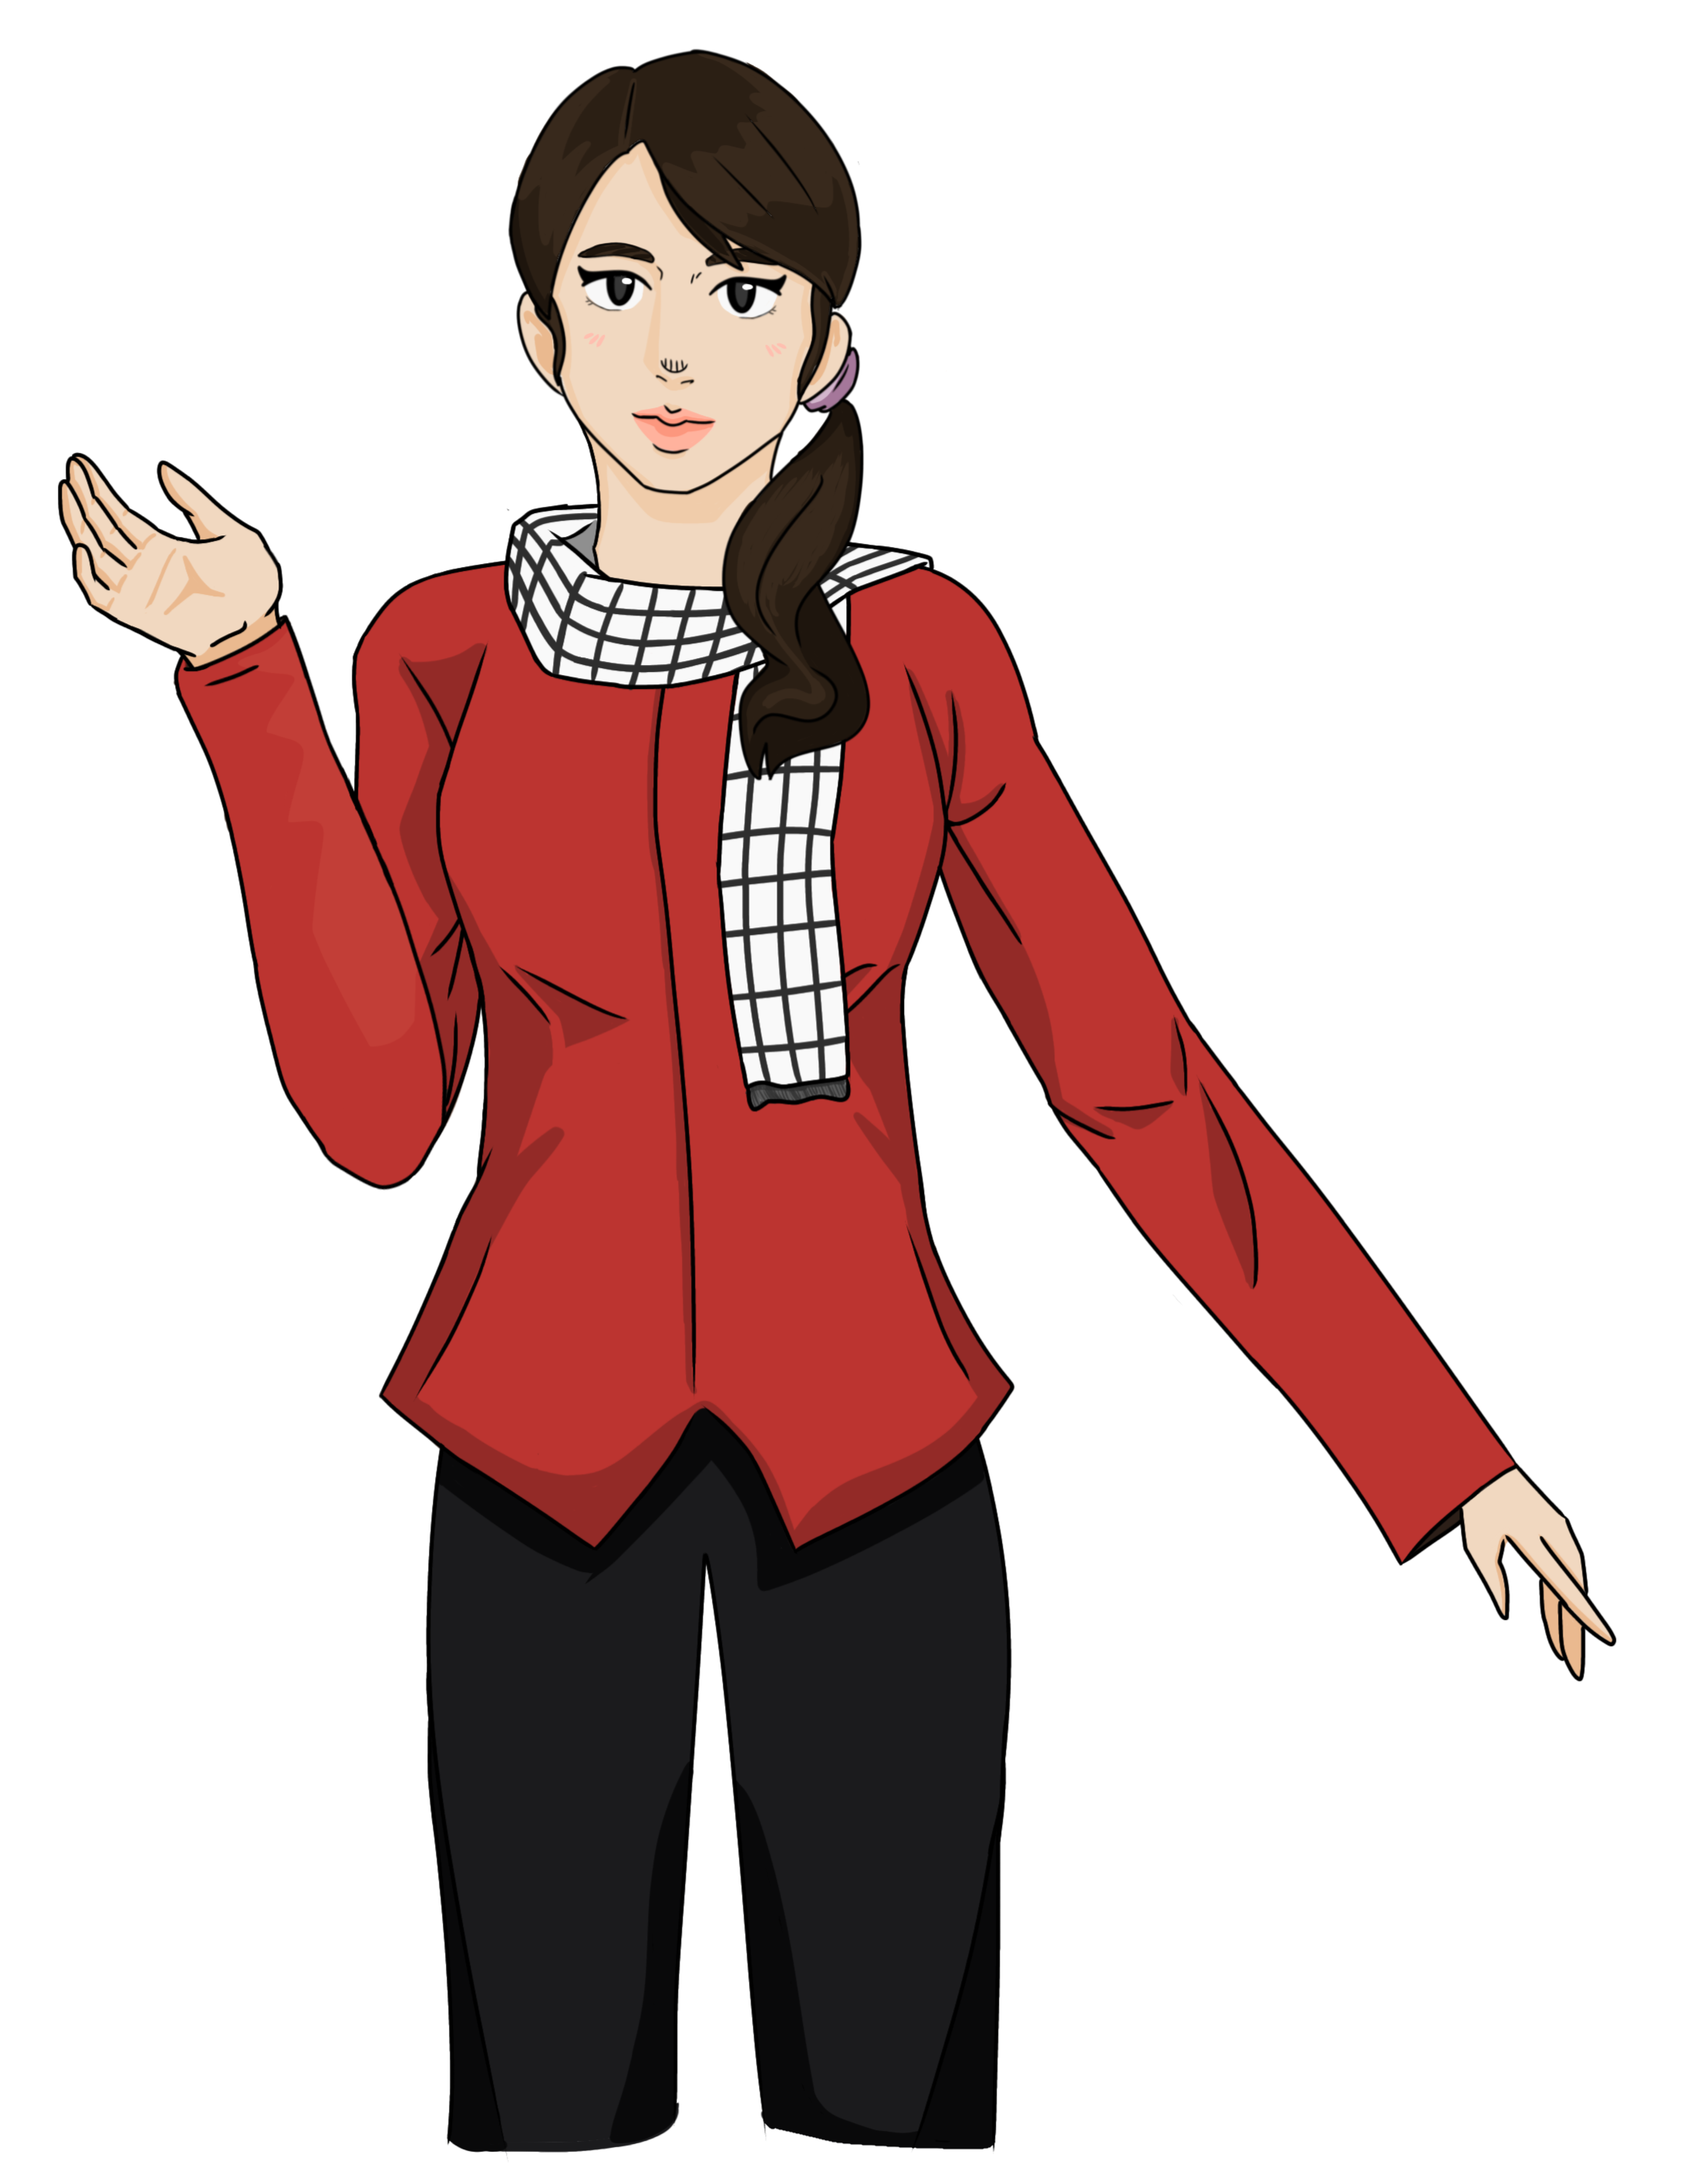
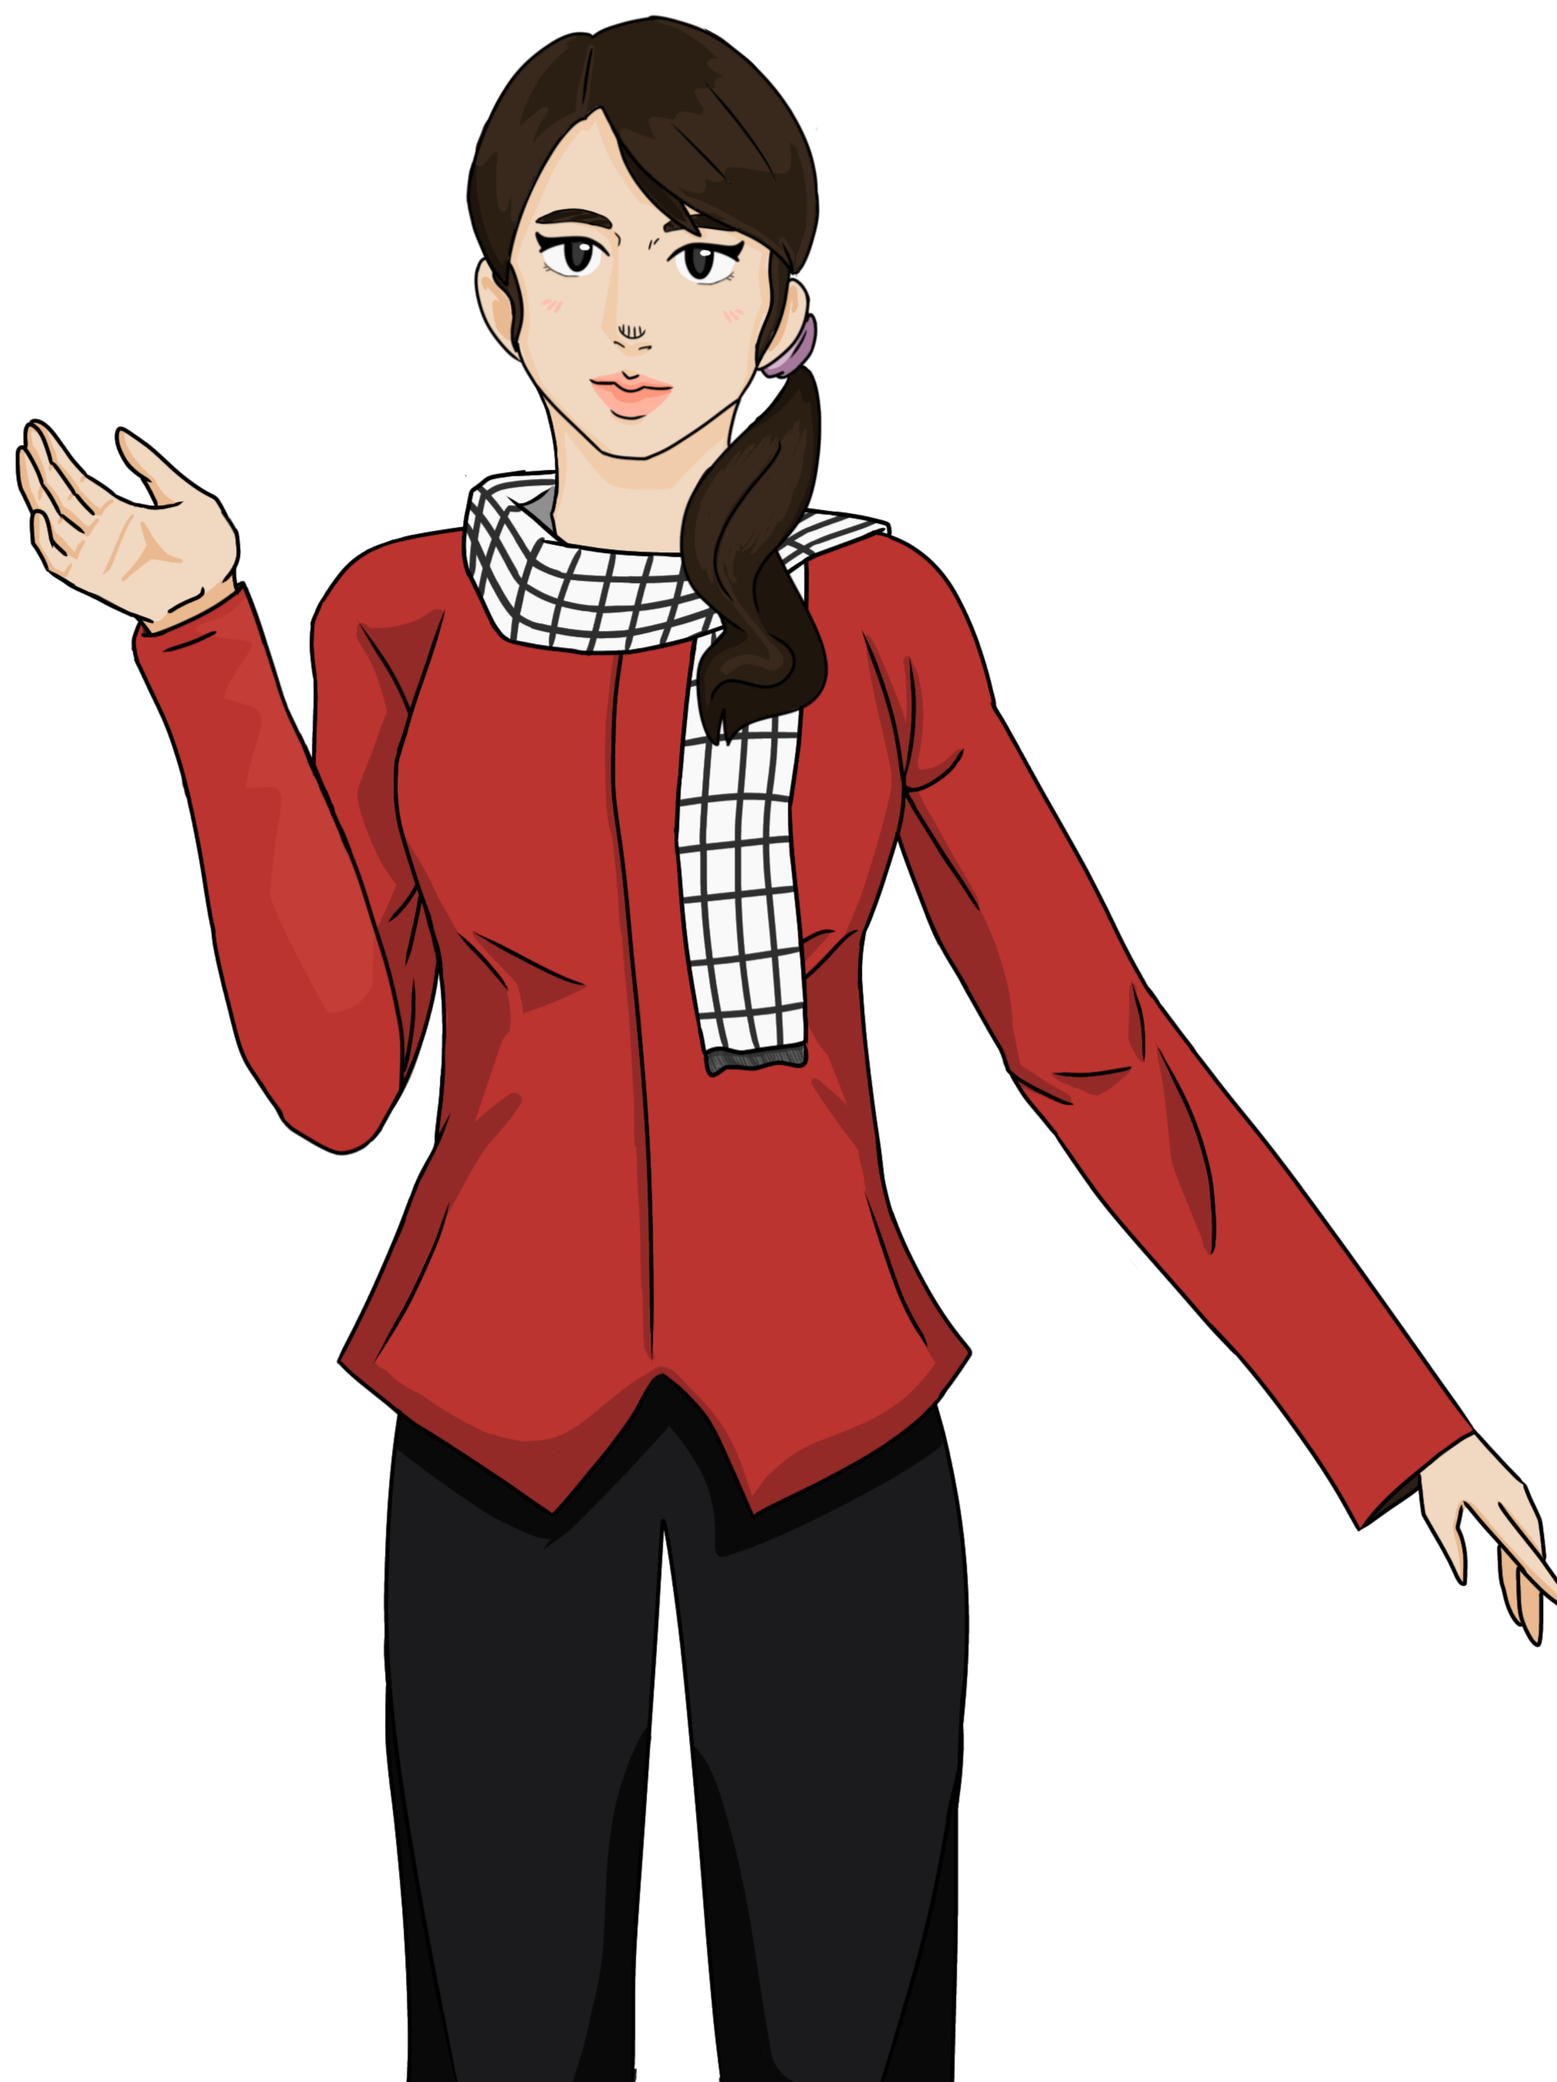
change text visual noval

Changed region(s): [[0.0, 0.0, 1.0, 1.0]]

diff --git a/client/src/components/VisualNovel1/VisualNovel.tsx b/client/src/components/VisualNovel1/VisualNovel.tsx
@@ -18,16 +18,27 @@ interface ModalAction {
 
 const Thoai = [
   {
-    character: "Thủy thủ",
-    content: "Chào cô hướng dẫn viên!",
+    character: "Hướng dẫn viên Ngân",
+    content:
+      "Xin chào các bạn, chị là A cũng là hướng dẫn viên du lịch đồng hành cùng các em vào lần trải nghiệm này. ",
   },
   {
-    character: "Võ Thị Sáu",
-    content: "Chào tất cả mọi người! Chúng ta cùng tham quan biển Đông nha",
+    character: "Hướng dẫn viên Ngân",
+    content: `Trong chuyến đi này, chúng ta sẽ có 3 chặng đường chính.
+    Chặng 1: Bắt đầu từ Côn Đảo đến “Vương quốc tỏi-Lý Sơn”.
+    Chặng 2: Từ Lý Sơn ta sẽ đi đến Biển đảo “Hoàng Sa-Trường Sa”. 
+    Chặng 3, cũng là chặng đường cuối cùng: từ biển khơi, ta sẽ trở về Côn Đảo.
+    `,
   },
   {
-    character: "Thủy Thủ",
-    content: "Oki lun!",
+    character: "Hướng dẫn viên Ngân",
+    content:
+      "Và để vượt qua các chặng đường, các bạn phải trả lời lần lượt các câu hỏi liên quan đến lịch sử, địa lý và tự nhiên,…",
+  },
+  {
+    character: "Hướng dẫn viên Ngân",
+    content:
+      "Nhưng các bạn cũng đừng quá lo lắng nhé, vì chị luôn ở đây để giúp đỡ các bạn, chúc các em may mắn!",
   },
 ];
 
@@ -56,9 +67,8 @@ const VisualNovel = ({ open, onClose }: ModalAction) => {
   useEffect(() => {
     if (typewriterRef.current) {
       typewriterRef.current
-        .deleteAll()
-        .typeString(content ?? "")
-        .pauseFor(5000)
+        .deleteAll(20)
+        .pasteString(content ?? "")
         .start();
     }
   }, [content]);
@@ -103,10 +113,7 @@ const VisualNovel = ({ open, onClose }: ModalAction) => {
               <Typewriter
                 onInit={(typewriter) => {
                   typewriterRef.current = typewriter;
-                  typewriter
-                    .typeString(content ?? "")
-                    .pauseFor(2500)
-                    .start();
+                  typewriter.typeString(content ?? "").start();
                 }}
               />
             </div>

diff --git a/client/src/components/ScreenAvA/ScreenAvA.tsx b/client/src/components/ScreenAvA/ScreenAvA.tsx
@@ -1,12 +1,56 @@
 "use client";
+import { useEffect, useState } from "react";
 import "./ScreenAvA.css";
+import ModalQuestion from "@/components/ModalQuestion/ModalQuestion";
+import { http } from "@/utils/config";
+import Question from "@/types/question";
 export default function ScreenAvA() {
+  const [numberOfQuestion, setNumberOfQuestion] = useState<number>(0);
+
+  const [questions, setQuestions] = useState<Question[]>([]);
+
+  useEffect(() => {
+    const fetchData = async () => {
+      try {
+        const response = await http.get(`/api/get-questionLySon`);
+        // console.log(response.data.questions.rows);
+        console.log(response.data.questions.rows.correctanswer);
+        setQuestions({
+          ...response.data.questions.rows,
+          correctAnswer: response.data.questions.rows.correctanswer,
+        });
+        // setQuestionSelected(
+        //   {
+        //     ...response.data.questions.rows,
+        //     correctAnswer: response.data.questions.rows.correctanswer,
+        //   }[1]
+        // );
+        // setJsonData(data);
+      } catch (error) {
+        console.error("Lỗi khi đọc file JSON:", error);
+      }
+    };
+
+    fetchData();
+  }, []);
+
   return (
     <>
       <div className="background">
         <div className="matBien">
           <div className="ship"></div>
           <div className="question"></div>
+          <div className="question"></div>
+          <div className="question"></div>
+        </div>
+        <div style={{ position: "relative" }}>
+          <ModalQuestion
+            open={true}
+            onClose={function (): void {
+              throw new Error("Function not implemented.");
+            }}
+            question={questions[0]}
+          ></ModalQuestion>
         </div>
       </div>
     </>

diff --git a/client/src/components/ScreenAvA/ScreenAvA.css b/client/src/components/ScreenAvA/ScreenAvA.css
@@ -1,13 +1,13 @@
-.background{
+.background {
   overflow: hidden;
   min-width: 100vw;
   min-height: 100vh;
-  background-image: url('../../assets/Images/Bien_.png');
+  background-image: url("../../assets/Images/Bien_.png");
   background-size: cover;
   z-index: 0;
 }
 
-.matBien{
+.matBien {
   position: relative;
   top: 0;
   border-bottom: 1px solid #333;
@@ -16,11 +16,11 @@
   z-index: 2;
 }
 
-.ship{
+.ship {
   position: absolute;
   left: 75px;
   bottom: 0%;
-  background-image: url('../../assets/Images/Con_thuyen.png');
+  background-image: url("../../assets/Images/Con_thuyen.png");
   background-size: cover;
   background-position: center center;
   min-height: 120px;
@@ -34,12 +34,12 @@
     transform: translateY(10px);
   }
   100% {
-    transform:translateY(-5px);
+    transform: translateY(-5px);
   }
 }
 
-.question{
-  background-image: url('../../assets/Images/chamhoi.png');
+.question {
+  background-image: url("../../assets/Images/chamhoi.png");
   background-size: cover;
   background-position: center center;
   min-height: 110px;
@@ -47,7 +47,7 @@
   position: absolute;
   bottom: 0;
   right: 0%;
-  animation: moveRightToLeft 7s linear infinite; 
+  animation: moveRightToLeft 7s linear forwards;
 }
 
 @keyframes moveRightToLeft {
@@ -55,10 +55,9 @@
     transform: translateX(270%);
   }
   95% {
-      transform: translateX(-760%);
+    transform: translateX(-760%);
   }
   100% {
-      transform: translateX(-760%);
+    transform: translateX(-760%);
   }
 }
-

diff --git a/client/src/components/VisualNovel1/VisualNovel.css b/client/src/components/VisualNovel1/VisualNovel.css
@@ -60,11 +60,12 @@
 
 .ImageCharacter2VisualNovel {
   min-height: 100%;
-  background-image: url("../../assets/Images/nhan_vat_chinh.png");
+  background-image: url("../../assets/Images/Nhan vat chinh(sua).png");
   background-size: contain;
-  background-size: 80%;
+  background-size: 70%;
   background-position: bottom center;
   background-repeat: no-repeat;
+  transform: rotateY(180deg);
   border: none;
 }
 
@@ -117,14 +118,17 @@
 
 .ContentVisualNovel {
   position: absolute;
+  padding: 3px;
   top: 40%;
   left: 23%;
+  right: 23%;
   font-weight: 400;
   font-size: 20px;
+  overflow: auto;
 }
 
 .ButtonNextVisualNovel {
   position: absolute;
-  bottom: 25%;
+  bottom: 23%;
   right: 25%;
 }

diff --git a/client/src/app/api/get-questionLySon/route.ts b/client/src/app/api/get-questionLySon/route.ts
@@ -1,7 +1,7 @@
-// import { sql } from "@vercel/postgres";
-// import { NextResponse } from "next/server";
+import { sql } from "@vercel/postgres";
+import { NextResponse } from "next/server";
 
-// export async function GET() {
-//   const questions = await sql`SELECT * FROM questionLySon`;
-//   return NextResponse.json({ questions }, { status: 200 });
-// }
+export async function GET() {
+  const questions = await sql`SELECT * FROM questionLySon`;
+  return NextResponse.json({ questions }, { status: 200 });
+}

diff --git a/client/src/app/test/page.tsx b/client/src/app/test/page.tsx
@@ -1,6 +1,6 @@
 "use client";
 
-import "./MiniMap.css";
+import ScreenAvA from "@/components/ScreenAvA/ScreenAvA";
 import Modal from "react-modal";
 
 interface ModalAction {
@@ -11,9 +11,7 @@ interface ModalAction {
 const MiniMap = ({ open, onClose }: ModalAction) => {
   return (
     <>
-      <Modal isOpen={open} onRequestClose={onClose}>
-        <div className="background"></div>
-      </Modal>
+      <ScreenAvA></ScreenAvA>
     </>
   );
 };

diff --git a/client/src/app/(homepage)/page.tsx b/client/src/app/(homepage)/page.tsx
@@ -56,7 +56,7 @@ export default function HomePage() {
   useEffect(() => {
     setTimeout(() => {
       setLoadingState(false);
-    }, 2000);
+    });
   }, []);
 
   // const handleButtonClick = () => {

diff --git a/client/src/components/ModalQuestion/ModalQuestion.css b/client/src/components/ModalQuestion/ModalQuestion.css
@@ -19,6 +19,11 @@
   border: none;
 }
 
+.Modal:focus,
+.Modal *:focus {
+  outline: none;
+}
+
 /* .question{
   position: absolute;
   top: 40%;
